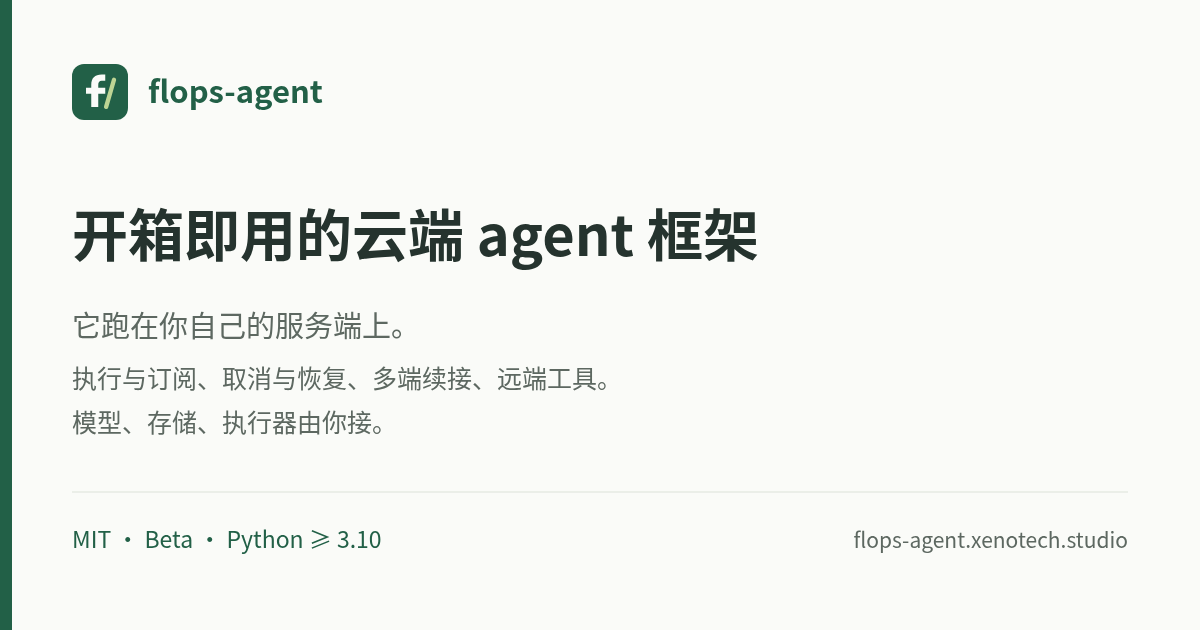
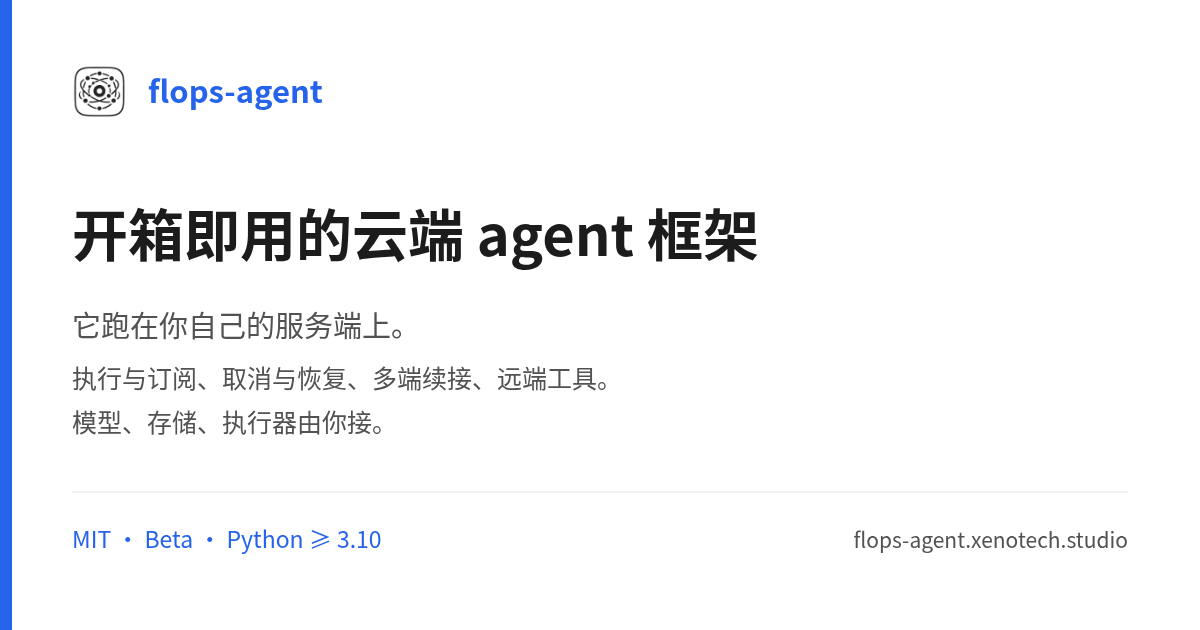
style(website): 图标与配色统一为主站的黑白灰 + 蓝色
- 图标改用主站那组 PNG（favicon / 64 / 128 / 256），删掉自绘的绿色 F 方块
- 全站配色从绿改为黑白灰 + 强调色 #2563eb（表格、代码块、选区、hover、focus 一并换）
- 分享卡 SVG 同步换色并重导出 PNG；index.html 的 icon 与 theme-color 更新

diff --git a/website/src/styles.css b/website/src/styles.css
@@ -2,16 +2,22 @@
 
 :root {
   font-family: -apple-system, BlinkMacSystemFont, "Segoe UI", "PingFang SC", "Hiragino Sans GB", "Microsoft YaHei", sans-serif;
-  color: #25332e;
-  background: #fafbf8;
+  color: var(--ink);
+  background: var(--color-bg);
   font-synthesis: none;
   text-rendering: optimizeLegibility;
   -webkit-font-smoothing: antialiased;
   color-scheme: light;
-  --ink: #25332e;
-  --muted: #5d6861;
-  --green: #226047;
-  --line: #dce2d9;
+  --ink: #1c1c1c;
+  --muted: #525252;
+  --color-bg: #ffffff;
+  --color-bg-muted: #f3f4f6;
+  --color-bg-subtle: #f0f0f0;
+  --color-border: #e5e5e5;
+  --color-border-strong: #d4d4d4;
+  --color-accent: #2563eb;
+  --color-accent-hover: #1d4ed8;
+  --line: var(--color-border);
   --mono: "SFMono-Regular", Consolas, "Liberation Mono", monospace;
 }
 
@@ -20,10 +26,11 @@ html { scroll-behavior: smooth; scroll-padding-top: 2rem; }
 body { margin: 0; min-width: 320px; font-size: 15px; line-height: 1.85; }
 button, a { -webkit-tap-highlight-color: transparent; touch-action: manipulation; }
 button { font: inherit; }
-a { color: inherit; text-decoration: none; }
+a { color: var(--color-accent); text-decoration: none; }
 a, button { transition: color 140ms ease, background-color 140ms ease; }
-a:hover { color: var(--green); }
-:focus-visible { outline: 2px solid var(--green); outline-offset: 5px; border-radius: 2px; }
+a:hover { color: var(--color-accent-hover); }
+:focus-visible { outline: 2px solid var(--color-accent-hover); outline-offset: 5px; border-radius: 2px; }
+::selection { background: #dbeafe; color: #121212; }
 h1, h2, h3, p { margin: 0; }
 h1, h2, h3 { color: var(--ink); }
 h1, h2 { font-weight: 650; letter-spacing: -.035em; text-wrap: balance; }
@@ -31,108 +38,108 @@ h3 { font-size: 16px; line-height: 1.65; font-weight: 650; }
 p { color: var(--muted); }
 code, pre { font-family: var(--mono); }
 code { font-size: .88em; overflow-wrap: anywhere; }
-p code, td code, dd code, li > div > p code { color: #364a3e; }
+p code, td code, dd code, li > div > p code { color: #262626; }
 ul, ol, dl { padding: 0; margin: 0; }
 pre { margin: 0; line-height: 1.8; tab-size: 4; }
 pre code { overflow-wrap: normal; font-size: inherit; }
 section { scroll-margin-top: 1rem; }
 .page-column { width: min(760px, calc(100% - 48px)); margin-inline: auto; }
 .sr-only { position: absolute; width: 1px; height: 1px; overflow: hidden; clip-path: inset(50%); white-space: nowrap; }
-.skip-link { position: fixed; top: -100px; left: 20px; z-index: 10; padding: 10px 20px; background: var(--green); color: white; }
+.skip-link { position: fixed; top: -100px; left: 20px; z-index: 10; padding: 10px 20px; background: var(--color-accent); color: white; }
 .skip-link:focus { top: 12px; color: white; }
 
 .site-header { width: min(1040px, calc(100% - 48px)); margin-inline: auto; min-height: 91px; display: flex; align-items: center; gap: 40px; border-bottom: 1px solid var(--line); }
-.brand { display: inline-flex; align-items: center; gap: 10px; font-family: var(--mono); font-size: 17px; font-weight: 650; letter-spacing: -.055em; }
-.brand-mark { display: grid; grid-auto-flow: column; place-content: center; width: 31px; height: 31px; color: #f5f8ed; background: var(--green); border-radius: 6px; font-size: 24px; line-height: 1; font-style: italic; padding-right: 3px; }
-.brand-mark span { color: #aace93; font-size: 20px; margin: 3px 0 0 1px; }
+.brand { color: var(--ink); display: inline-flex; align-items: center; gap: 10px; font-family: var(--mono); font-size: 17px; font-weight: 650; letter-spacing: -.055em; }
+.brand-mark { display: block; width: 31px; height: 31px; object-fit: contain; }
 .header-nav { display: flex; gap: 25px; font-size: 13px; }
 .public-links { margin-left: auto; display: flex; align-items: center; gap: 19px; font-family: var(--mono); font-size: 12px; color: var(--muted); }
-.external-mark { margin-left: 3px; color: #748076; }
+.external-mark { margin-left: 3px; color: #2563eb; }
 .link-status { border: 1px solid var(--line); padding: 2px 7px; border-radius: 4px; font-size: 10px; }
 
 .hero { padding: 89px 0 43px; }
-.eyebrow { display: flex; align-items: center; gap: 12px; color: var(--green); font-family: var(--mono); font-size: 11px; font-weight: 500; letter-spacing: .05em; line-height: 1.6; }
-.eyebrow > span:first-child:not(.status-dot) { color: #727d72; font-size: 10px; }
+.eyebrow { display: flex; align-items: center; gap: 12px; color: var(--color-accent); font-family: var(--mono); font-size: 11px; font-weight: 500; letter-spacing: .05em; line-height: 1.6; }
+.eyebrow > span:first-child:not(.status-dot) { color: #737373; font-size: 10px; }
 .hero-eyebrow { font-size: 12px; margin-bottom: 26px; }
-.status-dot { width: 6px; height: 6px; background: var(--green); border-radius: 50%; box-shadow: 0 0 0 4px #e8eee1; }
-.eyebrow-separator { color: #879082; }
+.status-dot { width: 6px; height: 6px; background: var(--color-accent); border-radius: 50%; box-shadow: 0 0 0 4px #dbeafe; }
+.eyebrow-separator { color: #737373; }
 h1 { font-size: clamp(30px, 4.2vw, 43px); line-height: 1.52; margin-left: -2px; }
 .hero-copy { font-size: 16px; line-height: 1.95; max-width: 650px; margin-top: 22px; }
 .metadata { display: flex; flex-wrap: wrap; list-style: none; gap: 0; margin-top: 20px; color: var(--muted); font-family: var(--mono); font-size: 11px; }
-.metadata li + li::before { content: "·"; margin-inline: 12px; color: #76816d; }
-.metadata strong { font-weight: 500; color: var(--green); }
+.metadata li + li::before { content: "·"; margin-inline: 12px; color: #737373; }
+.metadata strong { font-weight: 500; color: var(--color-accent); }
 .hero-actions { display: flex; gap: 12px; margin-top: 29px; flex-wrap: wrap; }
 .button { min-height: 46px; display: inline-flex; justify-content: center; align-items: center; gap: 24px; padding: 9px 18px; border-radius: 5px; font-size: 13px; border: 1px solid var(--line); }
-.button-primary { color: white; background: var(--green); border-color: var(--green); }
-.button-primary:hover { color: white; background: #174e36; }
-.button-secondary:hover { background: #edf1e8; }
-.hero-principle { display: flex; align-items: center; flex-wrap: wrap; gap: 7px 18px; padding: 20px 0 0; margin-top: 38px; border-top: 1px dashed #cfd8ca; font-size: 12px; color: var(--muted); }
+.button-primary { color: white; background: var(--color-accent); border-color: var(--color-accent); }
+.button-primary:hover { color: white; background: var(--color-accent-hover); border-color: var(--color-accent-hover); }
+.button-secondary:hover { background: var(--color-bg-muted); }
+.hero-principle { display: flex; align-items: center; flex-wrap: wrap; gap: 7px 18px; padding: 20px 0 0; margin-top: 38px; border-top: 1px dashed #e5e5e5; font-size: 12px; color: var(--muted); }
 .principle-divider { height: 14px; width: 1px; background: var(--line); }
 .hero-principle p { flex-basis: 100%; font-size: 12px; }
-.hero-principle .hero-story { color: var(--green); font-size: 14px; font-weight: 500; margin-bottom: 5px; }
-.product-card { display: block; margin-bottom: 24px; padding: 18px 20px; border: 1px solid #d3dfcb; border-radius: 6px; background: #f0f4eb; color: var(--muted); font-size: 14px; }
+.hero-principle .hero-story { color: var(--color-accent); font-size: 14px; font-weight: 500; margin-bottom: 5px; }
+.product-card { display: block; margin-bottom: 24px; padding: 18px 20px; border: 1px solid #e5e5e5; border-radius: 6px; background: var(--color-bg-muted); color: var(--muted); font-size: 14px; }
 .product-card-title { display: block; margin-bottom: 4px; color: var(--ink); font-size: 15px; font-weight: 600; }
 .product-card > span { display: block; }
-.product-card > span > strong { color: var(--green); font-weight: 600; }
-.product-card:hover, .product-card:focus-visible { background: #e6eedf; border-color: #b7cba9; color: var(--ink); }
-.product-card:focus-visible { outline: 2px solid var(--green); outline-offset: 4px; }
+.product-card > span > strong { color: var(--color-accent); font-weight: 600; }
+.product-card:hover > span > strong, .product-card:focus-visible > span > strong { color: var(--color-accent-hover); }
+.product-card:hover, .product-card:focus-visible { background: var(--color-bg-subtle); border-color: var(--color-border-strong); color: var(--ink); }
+.product-card:focus-visible { outline: 2px solid var(--color-accent-hover); outline-offset: 4px; }
 .section-nav { display: flex; flex-wrap: wrap; gap: 10px 25px; padding: 15px 0; border-block: 1px solid var(--line); font-size: 12px; color: var(--muted); }
-.section-nav a::before { content: "↳"; margin-right: 7px; color: #7b8972; }
+.section-nav a::before { content: "↳"; margin-right: 7px; color: #2563eb; }
 
 .section { padding: 66px 0; border-bottom: 1px solid var(--line); }
 .section-heading .eyebrow { margin-bottom: 14px; }
 h2 { font-size: clamp(23px, 3.3vw, 29px); line-height: 1.6; }
 .section-intro { margin: 16px 0 29px; }
-.source-note { margin-top: 20px; font-size: 11px; color: #66715f; line-height: 1.9; }
+.source-note { margin-top: 20px; font-size: 11px; color: #737373; line-height: 1.9; }
 .source-note a { text-decoration: underline; text-underline-offset: 3px; }
-.aside-note { margin-top: 18px; padding-left: 13px; border-left: 2px solid #c4d2ba; font-size: 12px; line-height: 1.9; }
+.aside-note { margin-top: 18px; padding-left: 13px; border-left: 2px solid var(--color-border-strong); font-size: 12px; line-height: 1.9; }
 .pitfall + .pitfall { margin-top: 34px; padding-top: 32px; border-top: 1px solid var(--line); }
-.pitfall-label { color: var(--green); font-family: var(--mono); font-size: 11px; margin-bottom: 8px; }
+.pitfall-label { color: var(--color-accent); font-family: var(--mono); font-size: 11px; margin-bottom: 8px; }
 .pitfall h3 { font-size: 19px; margin-bottom: 14px; }
 .pitfall > p:not(.pitfall-label) { font-size: 14px; }
 .pitfall > p + p { margin-top: 13px; }
-.pitfall .pitfall-answer { border-left: 2px solid #c4d2ba; padding-left: 15px; color: #45583f; }
+.pitfall .pitfall-answer { border-left: 2px solid var(--color-border-strong); padding-left: 15px; color: #404040; }
 .pitfall-answer a { text-decoration: underline; text-underline-offset: 3px; }
 .table-scroll { overflow-x: auto; border: 1px solid var(--line); border-radius: 6px; }
 table { border-collapse: collapse; width: 100%; text-align: left; table-layout: fixed; }
 th, td { vertical-align: top; width: 50%; padding: 18px 22px; }
-th { font-size: 12px; background: #eff3e9; font-weight: 650; color: var(--green); }
-th + th { background: #f2f3ef; color: #62695e; }
+th { font-size: 12px; background: var(--color-bg-muted); font-weight: 650; color: var(--color-accent); }
+th + th { background: var(--color-bg-subtle); color: #525252; }
 th + th, td + td { border-left: 1px solid var(--line); }
 td { border-top: 1px solid var(--line); font-size: 13px; }
 td strong { display: block; margin-bottom: 5px; font-size: 13px; font-weight: 600; }
 td p { line-height: 1.85; }
 .benefits-list { list-style: none; }
 .benefits-list li { display: flex; gap: 20px; padding: 23px 0; border-top: 1px solid var(--line); }
-.benefit-number { flex: 0 0 25px; padding-top: 4px; font: 11px/2 var(--mono); color: var(--green); }
+.benefit-number { flex: 0 0 25px; padding-top: 4px; font: 11px/2 var(--mono); color: var(--color-accent); }
 .benefits-list h3 { font-size: 16px; margin-bottom: 7px; }
 .benefits-list p { font-size: 13px; }
-.benefits-list .otherwise { margin-top: 7px; color: #66715f; font-size: 12px; }
+.benefits-list .otherwise { margin-top: 7px; color: #737373; font-size: 12px; }
 .value-item + .value-item { margin-top: 32px; padding-top: 30px; border-top: 1px solid var(--line); }
 .value-heading { display: flex; gap: 14px; align-items: baseline; margin-bottom: 12px; }
-.value-heading > span { flex: 0 0 22px; color: var(--green); font: 11px var(--mono); }
+.value-heading > span { flex: 0 0 22px; color: var(--color-accent); font: 11px var(--mono); }
 .value-heading h3 { font-size: 18px; }
 .value-item > p { font-size: 14px; }
 .value-item .source-note { margin-top: 11px; font-size: 11px; }
 .implementation-note { margin: 22px 0 13px; }
 .implementation-note p { font-size: 12px; margin-top: 4px; }
 .privacy-facts { display: grid; grid-template-columns: 1fr 1fr; gap: 16px; }
-.privacy-facts > div { padding: 18px; border: 1px solid #d4dfcb; background: #f0f4eb; border-radius: 5px; }
+.privacy-facts > div { padding: 18px; border: 1px solid #e5e5e5; background: var(--color-bg-muted); border-radius: 5px; }
 .privacy-facts dt { font-size: 13px; font-weight: 600; margin-bottom: 7px; }
 .privacy-facts dd { margin: 0; color: var(--muted); font-size: 12px; }
-.value-boundary { border-left: 2px solid #bacbac; margin-top: 20px; padding-left: 16px; }
+.value-boundary { border-left: 2px solid var(--color-border-strong); margin-top: 20px; padding-left: 16px; }
 .value-boundary strong { font-size: 13px; font-weight: 600; }
 .value-boundary p { font-size: 12px; margin-top: 7px; }
 .device-table th:first-child, .seams-table th:first-child { width: 34%; }
 .device-table th:last-child, .seams-table th:last-child { width: 66%; }
-.device-table tbody th, .seams-table tbody th { background: #f2f5ed; border-top: 1px solid var(--line); color: var(--ink); font-size: 12px; font-weight: 500; }
+.device-table tbody th, .seams-table tbody th { background: var(--color-bg-muted); border-top: 1px solid var(--line); color: var(--ink); font-size: 12px; font-weight: 500; }
 .device-table tbody td, .seams-table tbody td { width: 66%; border-left: 1px solid var(--line); font-size: 12px; }
 .device-rules { list-style: none; margin-top: 18px; }
 .device-rules li { position: relative; padding-left: 15px; font-size: 12px; color: var(--muted); }
 .device-rules li + li { margin-top: 10px; }
-.device-rules li::before { content: "·"; position: absolute; left: 0; color: var(--green); font-weight: 700; }
+.device-rules li::before { content: "·"; position: absolute; left: 0; color: var(--color-accent); font-weight: 700; }
 .device-rules strong { color: var(--ink); font-weight: 600; }
-.showcase-existing { border-left: 3px solid #819871; padding: 20px 22px; background: #eff3e9; border-radius: 0 5px 5px 0; }
+.showcase-existing { border-left: 3px solid var(--color-border-strong); padding: 20px 22px; background: var(--color-bg-muted); border-radius: 0 5px 5px 0; }
 .showcase-existing h3 { margin: 8px 0; font-size: 16px; }
 .showcase-existing p { font-size: 13px; }
 .possibilities { margin-top: 25px; }
@@ -148,43 +155,43 @@ td p { line-height: 1.85; }
 
 .timeline { list-style: none; margin-top: 31px; }
 .timeline li { display: flex; gap: 23px; position: relative; padding-bottom: 28px; }
-.timeline li:not(:last-child)::before { content: ""; position: absolute; width: 1px; background: #cdd8c5; top: 29px; bottom: 0; left: 14px; }
-.timeline-index { display: grid; place-items: center; flex: 0 0 29px; height: 29px; border: 1px solid #cbd5c3; border-radius: 50%; color: var(--green); font: 11px var(--mono); background: #f0f4e9; }
+.timeline li:not(:last-child)::before { content: ""; position: absolute; width: 1px; background: #e5e5e5; top: 29px; bottom: 0; left: 14px; }
+.timeline-index { display: grid; place-items: center; flex: 0 0 29px; height: 29px; border: 1px solid #e5e5e5; border-radius: 50%; color: var(--color-accent); font: 11px var(--mono); background: var(--color-bg-muted); }
 .timeline li > div { min-width: 0; }
 .timeline h3 { font-size: 15px; margin-bottom: 5px; }
 .timeline p { font-size: 13px; }
-.callout { border-left: 3px solid #819871; background: #eff3e9; padding: 19px 22px; border-radius: 0 5px 5px 0; }
+.callout { border-left: 3px solid var(--color-border-strong); background: var(--color-bg-muted); padding: 19px 22px; border-radius: 0 5px 5px 0; }
 .callout strong { font-size: 13px; font-weight: 600; }
 .callout p { margin-top: 5px; font-size: 12px; }
 
 .step-heading { display: flex; align-items: center; gap: 12px; margin: 34px 0 12px; }
-.step-heading span { color: var(--green); border: 1px solid #cdd8c5; border-radius: 3px; padding: 2px 5px; font: 10px var(--mono); }
+.step-heading span { color: var(--color-accent); border: 1px solid #e5e5e5; border-radius: 3px; padding: 2px 5px; font: 10px var(--mono); }
 .step-heading + p { font-size: 13px; }
-.code-window { margin: 19px 0 0; background: #202c26; color: #e3e9dc; border: 1px solid #2d3a31; border-radius: 6px; overflow: hidden; }
-.code-bar { display: flex; flex-wrap: wrap; align-items: center; justify-content: space-between; gap: 12px; padding: 10px 19px; background: #27342d; border-bottom: 1px solid #3b483e; font-family: var(--mono); font-size: 11px; color: #c1cabb; }
-.code-language { color: #c0d1a5; font-size: 9px; letter-spacing: .07em; margin-right: 16px; }
+.code-window { margin: 19px 0 0; background: #121212; color: var(--color-bg-muted); border: 1px solid #404040; border-radius: 6px; overflow: hidden; }
+.code-bar { display: flex; flex-wrap: wrap; align-items: center; justify-content: space-between; gap: 12px; padding: 10px 19px; background: #1c1c1c; border-bottom: 1px solid #404040; font-family: var(--mono); font-size: 11px; color: var(--color-border-strong); }
+.code-language { color: var(--color-border-strong); font-size: 9px; letter-spacing: .07em; margin-right: 16px; }
 .code-window pre { overflow-x: auto; padding: 22px; font-size: 12px; }
-.code-window pre:focus-visible { outline-color: #bcd591; outline-offset: -4px; }
+.code-window pre:focus-visible { outline-color: #60a5fa; outline-offset: -4px; }
 .copy-control { display: inline-flex; position: relative; flex-shrink: 0; }
-.copy-button { display: inline-flex; align-items: center; justify-content: center; gap: 6px; min-height: 32px; padding: 4px 7px; border: 1px solid #d3dbce; border-radius: 4px; background: transparent; color: var(--muted); cursor: pointer; font-size: 11px; white-space: nowrap; }
-.copy-button:hover { color: var(--green); background: #edf2e6; }
+.copy-button { display: inline-flex; align-items: center; justify-content: center; gap: 6px; min-height: 32px; padding: 4px 7px; border: 1px solid #e5e5e5; border-radius: 4px; background: transparent; color: var(--muted); cursor: pointer; font-size: 11px; white-space: nowrap; }
+.copy-button:hover { color: var(--color-accent-hover); background: var(--color-bg-subtle); }
 .copy-feedback:empty { display: none; }
-.copy-feedback { position: absolute; z-index: 1; right: 0; top: calc(100% + 4px); min-width: max-content; max-width: 230px; padding: 3px 8px; border-radius: 3px; background: #e9f1df; color: #24563b; font-size: 11px; line-height: 1.7; box-shadow: 0 2px 8px #18251b15; }
-.copy-error { background: #f9efdc; color: #795322; }
-.code-window .copy-button { color: #d9e2ce; border-color: #58664f; min-height: 28px; }
-.code-window .copy-button:hover { background: #3b4a3c; }
-.code-window .copy-button:focus-visible { outline-color: #c2dd9a; }
-.expected-output { margin-top: 19px; padding: 18px 21px; border: 1px dashed #cdd7c3; border-radius: 5px; background: #f4f6f0; }
+.copy-feedback { position: absolute; z-index: 1; right: 0; top: calc(100% + 4px); min-width: max-content; max-width: 230px; padding: 3px 8px; border-radius: 3px; background: #dbeafe; color: #1d4ed8; font-size: 11px; line-height: 1.7; box-shadow: 0 2px 8px #00000015; }
+.copy-error { background: var(--color-bg-muted); color: #404040; }
+.code-window .copy-button { color: #e5e5e5; border-color: #525252; min-height: 28px; }
+.code-window .copy-button:hover { background: #262626; }
+.code-window .copy-button:focus-visible { outline-color: #60a5fa; }
+.expected-output { margin-top: 19px; padding: 18px 21px; border: 1px dashed #e5e5e5; border-radius: 5px; background: var(--color-bg-muted); }
 .expected-output .eyebrow { display: block; font-size: 10px; margin-bottom: 9px; }
 .expected-output pre { white-space: pre-wrap; font-size: 12px; }
 
 .progress-grid { display: grid; grid-template-columns: repeat(2, minmax(0, 1fr)); gap: 17px; }
 .progress-panel { border: 1px solid var(--line); border-radius: 6px; padding: 22px; }
 .progress-panel h3 { display: flex; align-items: center; gap: 10px; font-size: 15px; margin-bottom: 21px; }
-.available { background: #f0f4eb; border-color: #d3dfcb; }
-.available h3 { color: var(--green); }
-.pending { background: #f6f6f1; }
-.pending h3 { color: #656954; }
+.available { background: var(--color-bg-muted); border-color: #e5e5e5; }
+.available h3 { color: var(--color-accent); }
+.pending { background: var(--color-bg-muted); }
+.pending h3 { color: #525252; }
 .progress-panel ul { list-style: none; }
 .progress-panel li + li { margin-top: 20px; }
 .progress-panel strong { display: block; font-size: 13px; font-weight: 600; }
@@ -193,28 +200,28 @@ td p { line-height: 1.85; }
 .non-goals-list li { display: flex; gap: 20px; padding: 18px 0; border-bottom: 1px solid var(--line); }
 .non-goals-list li:first-child { padding-top: 0; }
 .non-goals-list li:last-child { border-bottom: 0; padding-bottom: 0; }
-.non-goals-list li > span { font: 11px/2.4 var(--mono); color: #75816b; }
+.non-goals-list li > span { font: 11px/2.4 var(--mono); color: #737373; }
 .non-goals-list h3 { font-size: 15px; }
 .non-goals-list p { font-size: 13px; margin-top: 4px; }
 
-.docs-index { display: flex; align-items: center; justify-content: space-between; gap: 12px; background: #eef3e7; padding: 16px 18px; border-radius: 5px; margin-bottom: 12px; }
+.docs-index { display: flex; align-items: center; justify-content: space-between; gap: 12px; background: var(--color-bg-muted); padding: 16px 18px; border-radius: 5px; margin-bottom: 12px; }
 .docs-index > div { display: flex; align-items: center; flex-wrap: wrap; gap: 4px 15px; }
-.small-label { color: var(--green); font-size: 11px; }
+.small-label { color: var(--color-accent); font-size: 11px; }
 .docs-list { list-style: none; }
 .docs-list li { border-bottom: 1px solid var(--line); }
 .doc-link { display: flex; align-items: center; gap: 18px; padding: 20px 0; }
-.doc-link:hover h3, .docs-index:hover strong { text-decoration: underline; text-underline-offset: 3px; }
-.doc-open { flex-shrink: 0; color: var(--green); font-size: 11px; }
+.doc-link:hover h3, .docs-index:hover strong { color: var(--color-accent-hover); text-decoration: underline; text-underline-offset: 3px; }
+.doc-open { flex-shrink: 0; color: var(--color-accent); font-size: 11px; }
 .docs-index strong { font-size: 14px; font-weight: 600; }
-.doc-number { align-self: flex-start; width: 24px; flex-shrink: 0; font: 10px/2.3 var(--mono); color: var(--green); }
+.doc-number { align-self: flex-start; width: 24px; flex-shrink: 0; font: 10px/2.3 var(--mono); color: var(--color-accent); }
 .doc-description { min-width: 0; flex: 1; }
-.doc-description h3 { font-size: 14px; }
+.doc-description h3 { font-size: 14px; color: var(--color-accent); }
 .doc-description p { font-size: 11px; line-height: 1.6; margin-top: 2px; }
 .site-footer { padding-block: 27px 36px; }
 .footer-top { display: flex; align-items: center; justify-content: space-between; flex-wrap: wrap; gap: 10px 18px; }
 .site-footer .brand { font-size: 14px; }
 .footer-top > span { margin-left: auto; font-family: var(--mono); font-size: 10px; color: var(--muted); }
-.back-to-top { font-size: 11px; color: var(--muted); }
+.back-to-top { font-size: 11px; color: var(--color-accent); }
 .site-footer > p { font-size: 11px; margin-top: 13px; }
 
 @media (max-width: 760px) {

diff --git a/website/index.html b/website/index.html
@@ -7,10 +7,11 @@
       name="description"
       content="它跑在你自己的服务端上：把 agent 跑成服务该有的那套运行机制（执行与订阅、取消与恢复、多端续接、远端工具）都是现成的——模型、存储、执行器由你接。"
     />
-    <meta name="theme-color" content="#fafbf8" />
-    <link rel="icon" type="image/svg+xml" href="/favicon.svg" />
-    <link rel="icon" type="image/png" sizes="32x32" href="/favicon-32.png" />
-    <link rel="apple-touch-icon" sizes="180x180" href="/apple-touch-icon.png" />
+    <meta name="theme-color" content="#ffffff" />
+    <link rel="icon" type="image/png" href="/favicon.png" sizes="64x64" />
+    <link rel="icon" type="image/png" href="/favicon-64.png" sizes="64x64" />
+    <link rel="icon" type="image/png" href="/favicon-128.png" sizes="128x128" />
+    <link rel="icon" type="image/png" href="/favicon-256.png" sizes="256x256" />
     <link rel="canonical" href="https://flops-agent.xenotech.studio/" />
     <title>flops-agent — 开箱即用的云端 agent 框架</title>
     <meta property="og:type" content="website" />
@@ -19,7 +20,7 @@
     <meta property="og:url" content="https://flops-agent.xenotech.studio/" />
     <meta property="og:title" content="flops-agent — 开箱即用的云端 agent 框架" />
     <meta property="og:description" content="它跑在你自己的服务端上：把 agent 跑成服务该有的那套运行机制（执行与订阅、取消与恢复、多端续接、远端工具）都是现成的——模型、存储、执行器由你接。" />
-    <meta property="og:image" content="https://flops-agent.xenotech.studio/social-card.png" />
+    <meta property="og:image" content="https://flops-agent.xenotech.studio/social-card.png?v=d8facc1623c6" />
     <meta property="og:image:type" content="image/png" />
     <meta property="og:image:width" content="1200" />
     <meta property="og:image:height" content="630" />
@@ -27,7 +28,7 @@
     <meta name="twitter:card" content="summary_large_image" />
     <meta name="twitter:title" content="flops-agent — 开箱即用的云端 agent 框架" />
     <meta name="twitter:description" content="它跑在你自己的服务端上：把 agent 跑成服务该有的那套运行机制（执行与订阅、取消与恢复、多端续接、远端工具）都是现成的——模型、存储、执行器由你接。" />
-    <meta name="twitter:image" content="https://flops-agent.xenotech.studio/social-card.png" />
+    <meta name="twitter:image" content="https://flops-agent.xenotech.studio/social-card.png?v=d8facc1623c6" />
     <meta name="twitter:image:alt" content="flops-agent：开箱即用的云端 agent 框架，跑在你自己的服务端上。" />
   </head>
   <body>

diff --git a/website/src/App.tsx b/website/src/App.tsx
@@ -119,7 +119,7 @@ function App() {
 
       <header className="site-header" id="top">
         <a className="brand" href="#top" aria-label="flops-agent 首页">
-          <span className="brand-mark" aria-hidden="true">f<span>/</span></span>
+          <img className="brand-mark" src="/favicon-64.png" width="31" height="31" alt="" aria-hidden="true" />
           <span>flops-agent</span>
         </a>
         <nav className="header-nav" aria-label="主导航">
